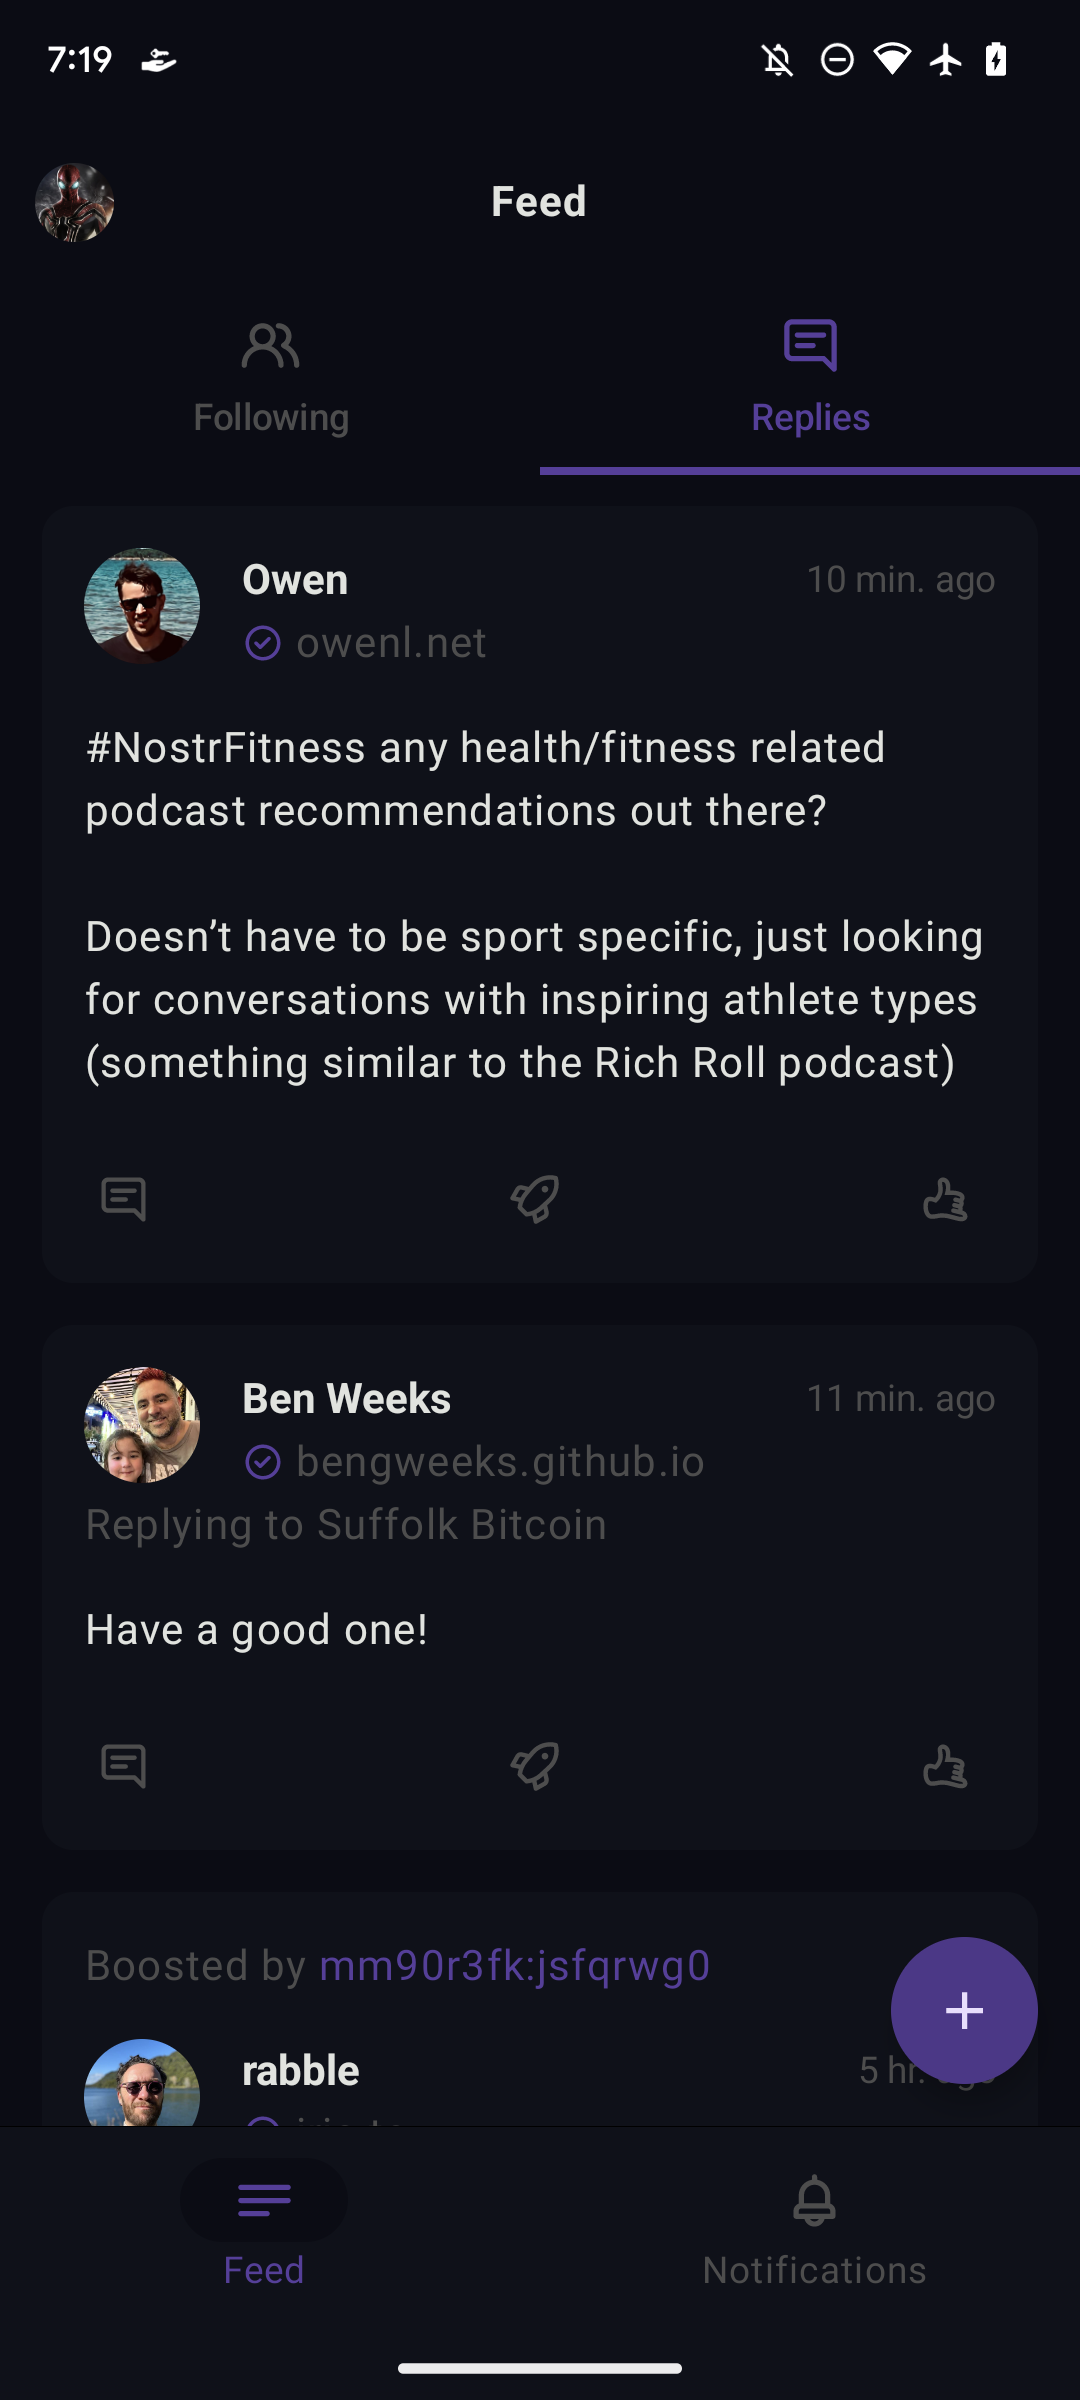
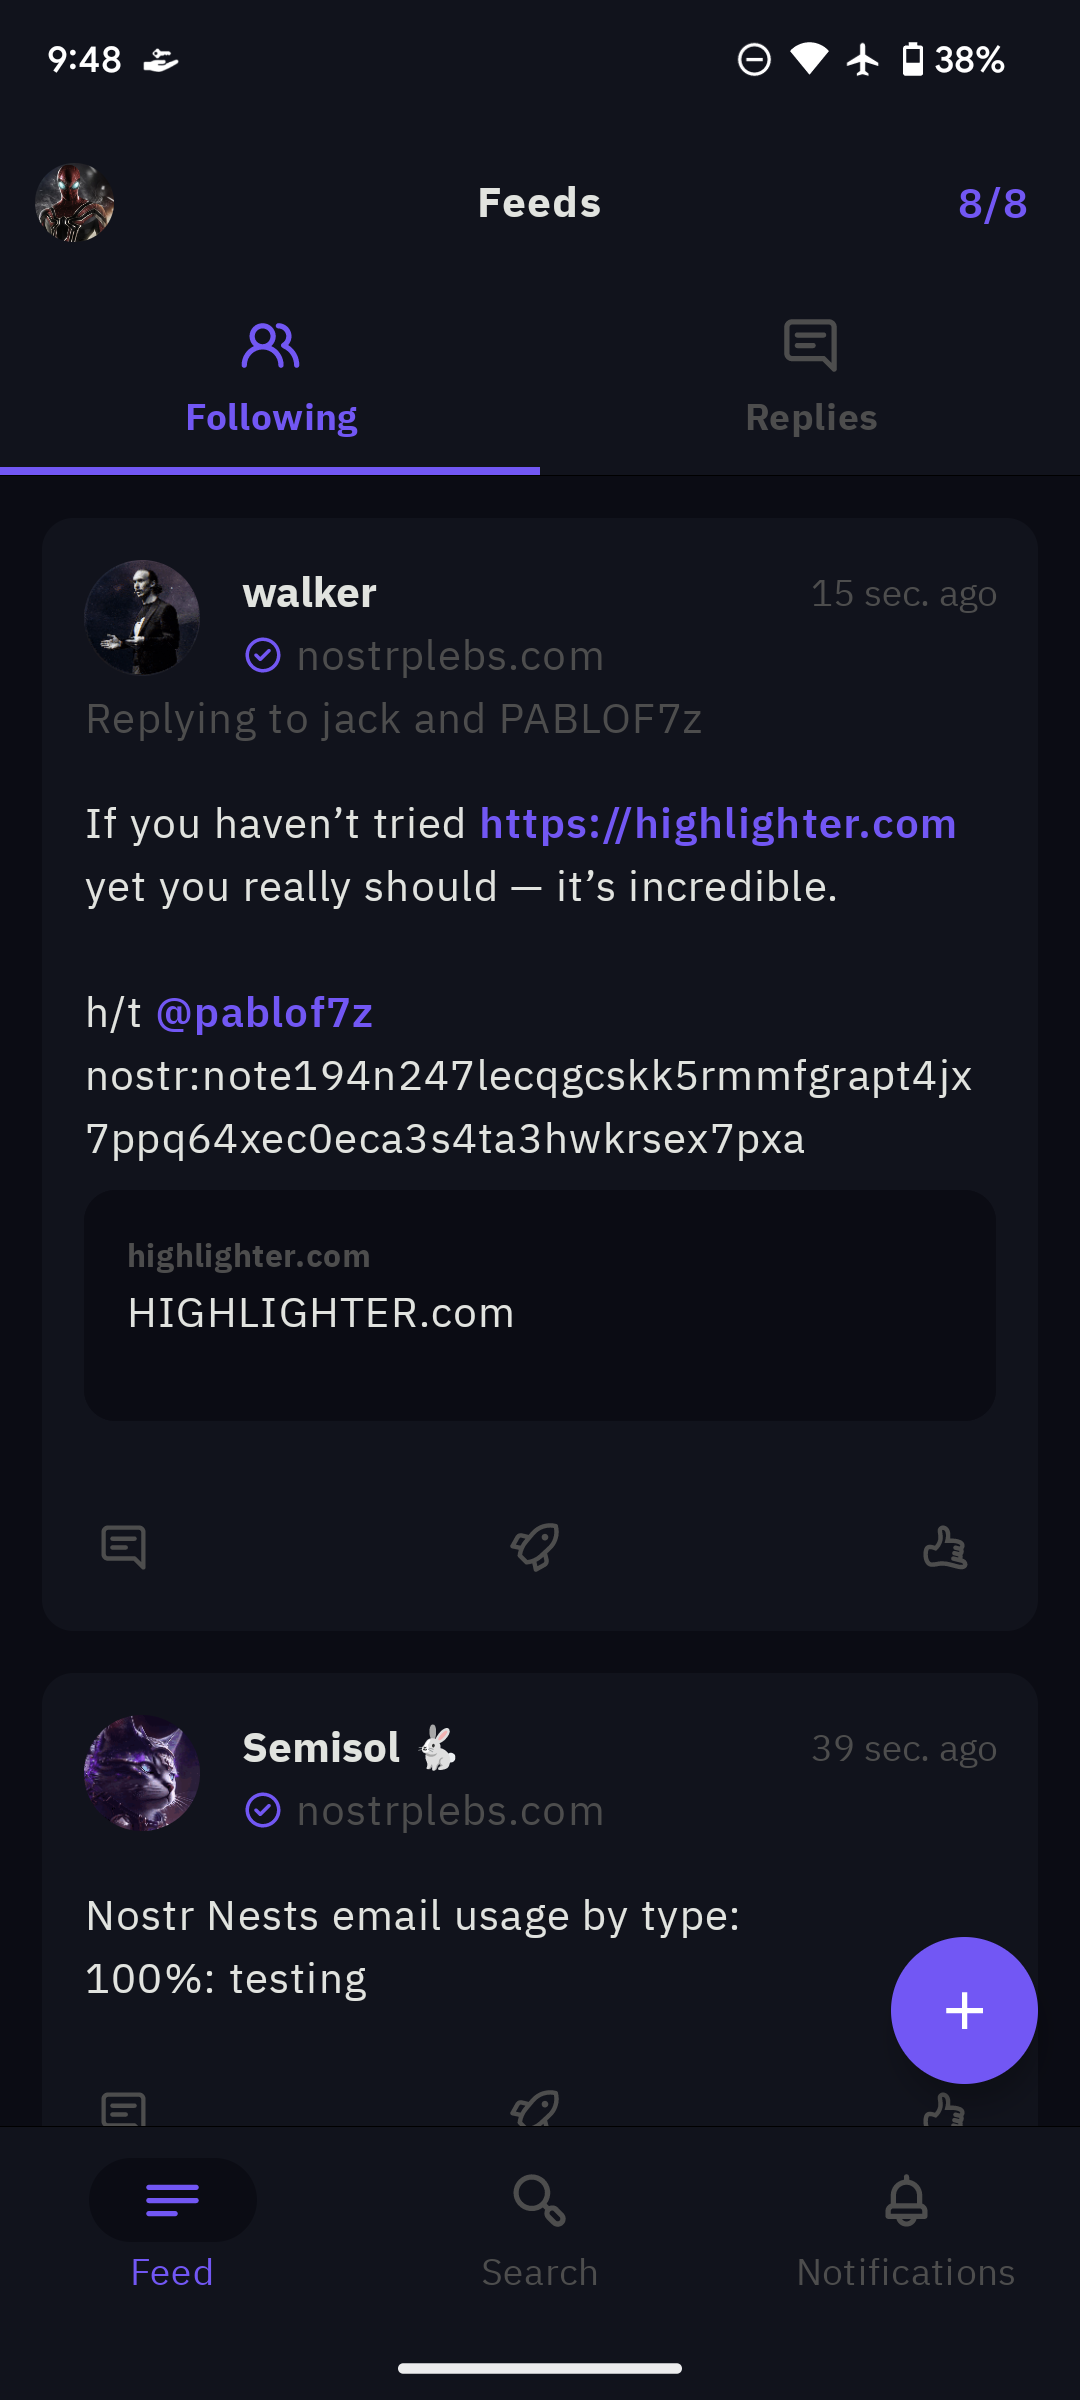
Update screenshots (#272)

diff --git a/README.md b/README.md
@@ -1,11 +1,23 @@
 ![build status](https://github.com/plasma-social/plasma/actions/workflows/android.yml/badge.svg?branch=main)
+
 # plasma
-An offline-first social media app for Android, built on the [nostr](https://github.com/nostr-protocol/nostr) protocol.
+
+An offline-first social media app for Android, built on
+the [nostr](https://github.com/nostr-protocol/nostr) protocol.
 <div>
 <img src="./screengrabs/login.png" width="245" />
 <img src="./screengrabs/profile.png" width="245" />
 <img src="./screengrabs/timeline.png" width="245" />
 <img src="./screengrabs/thread.png" width="245" />
+</div>
+<div>
+<img src="./screengrabs/compose-hashtags.png" width="490">
+<img src="./screengrabs/compose-profile.png" width="490">
+</div>
+<div>
+<img src="./screengrabs/search-suggestions.png" width="325">
+<img src="./screengrabs/search-hashtags.png" width="325">
+<img src="./screengrabs/search-profile.png" width="325">
 </div>
 
 ## NIPS Implemented
